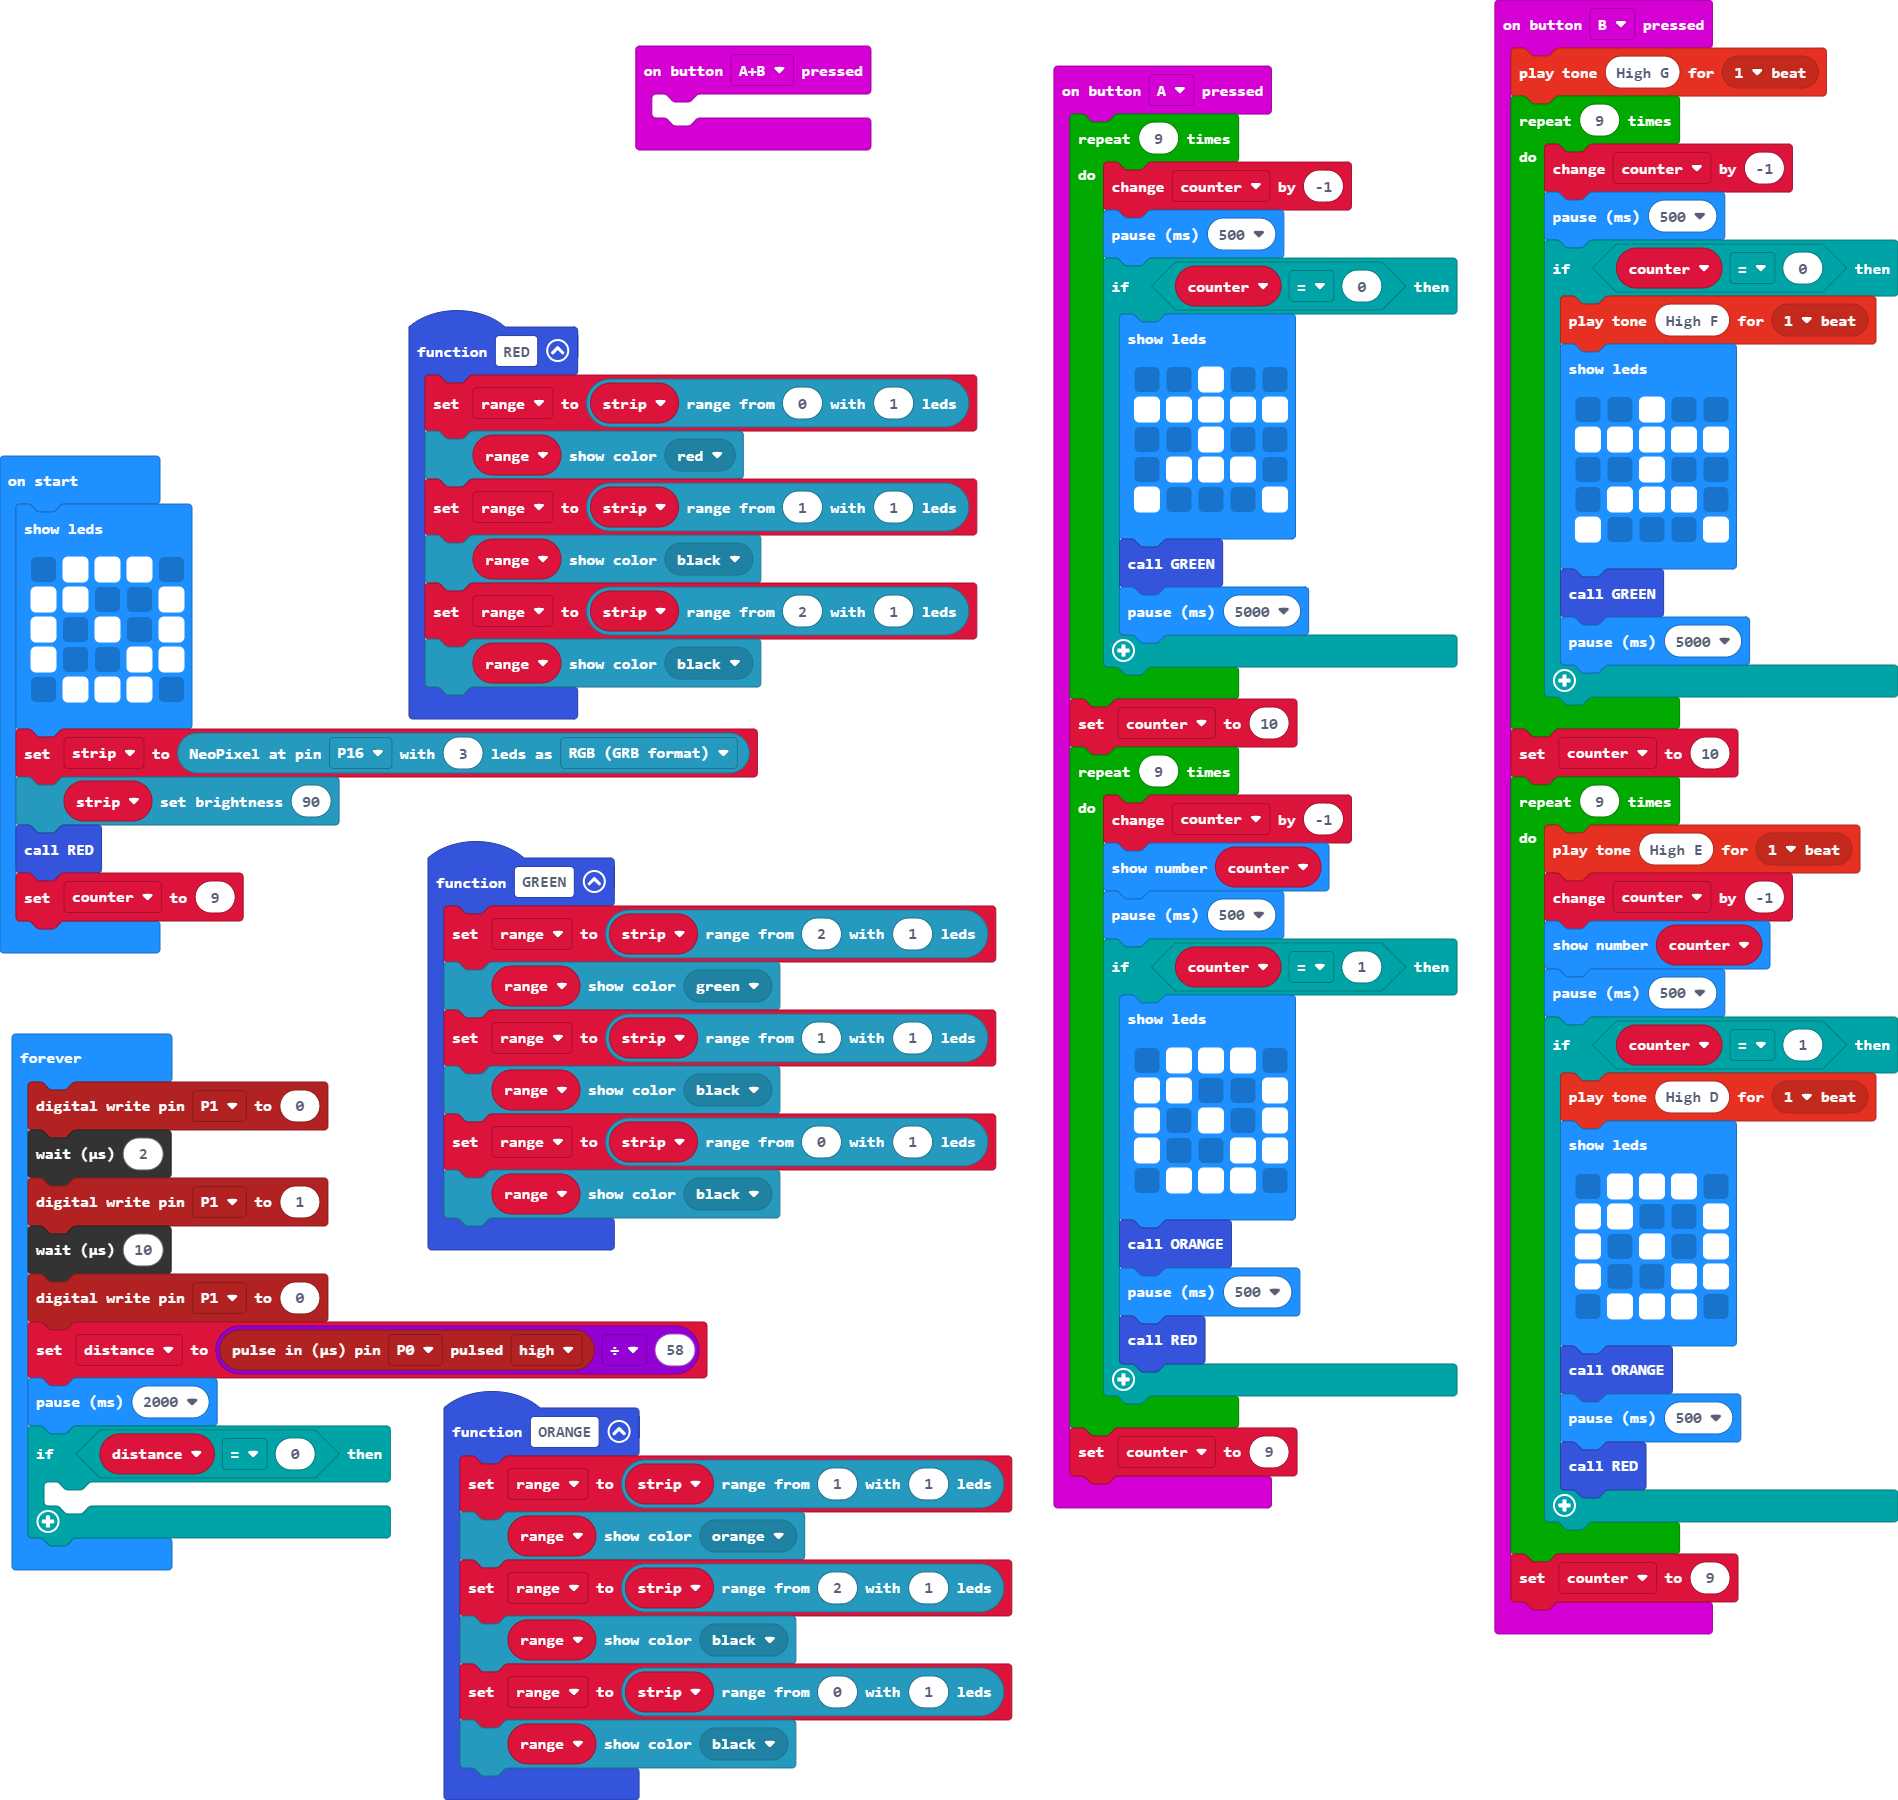
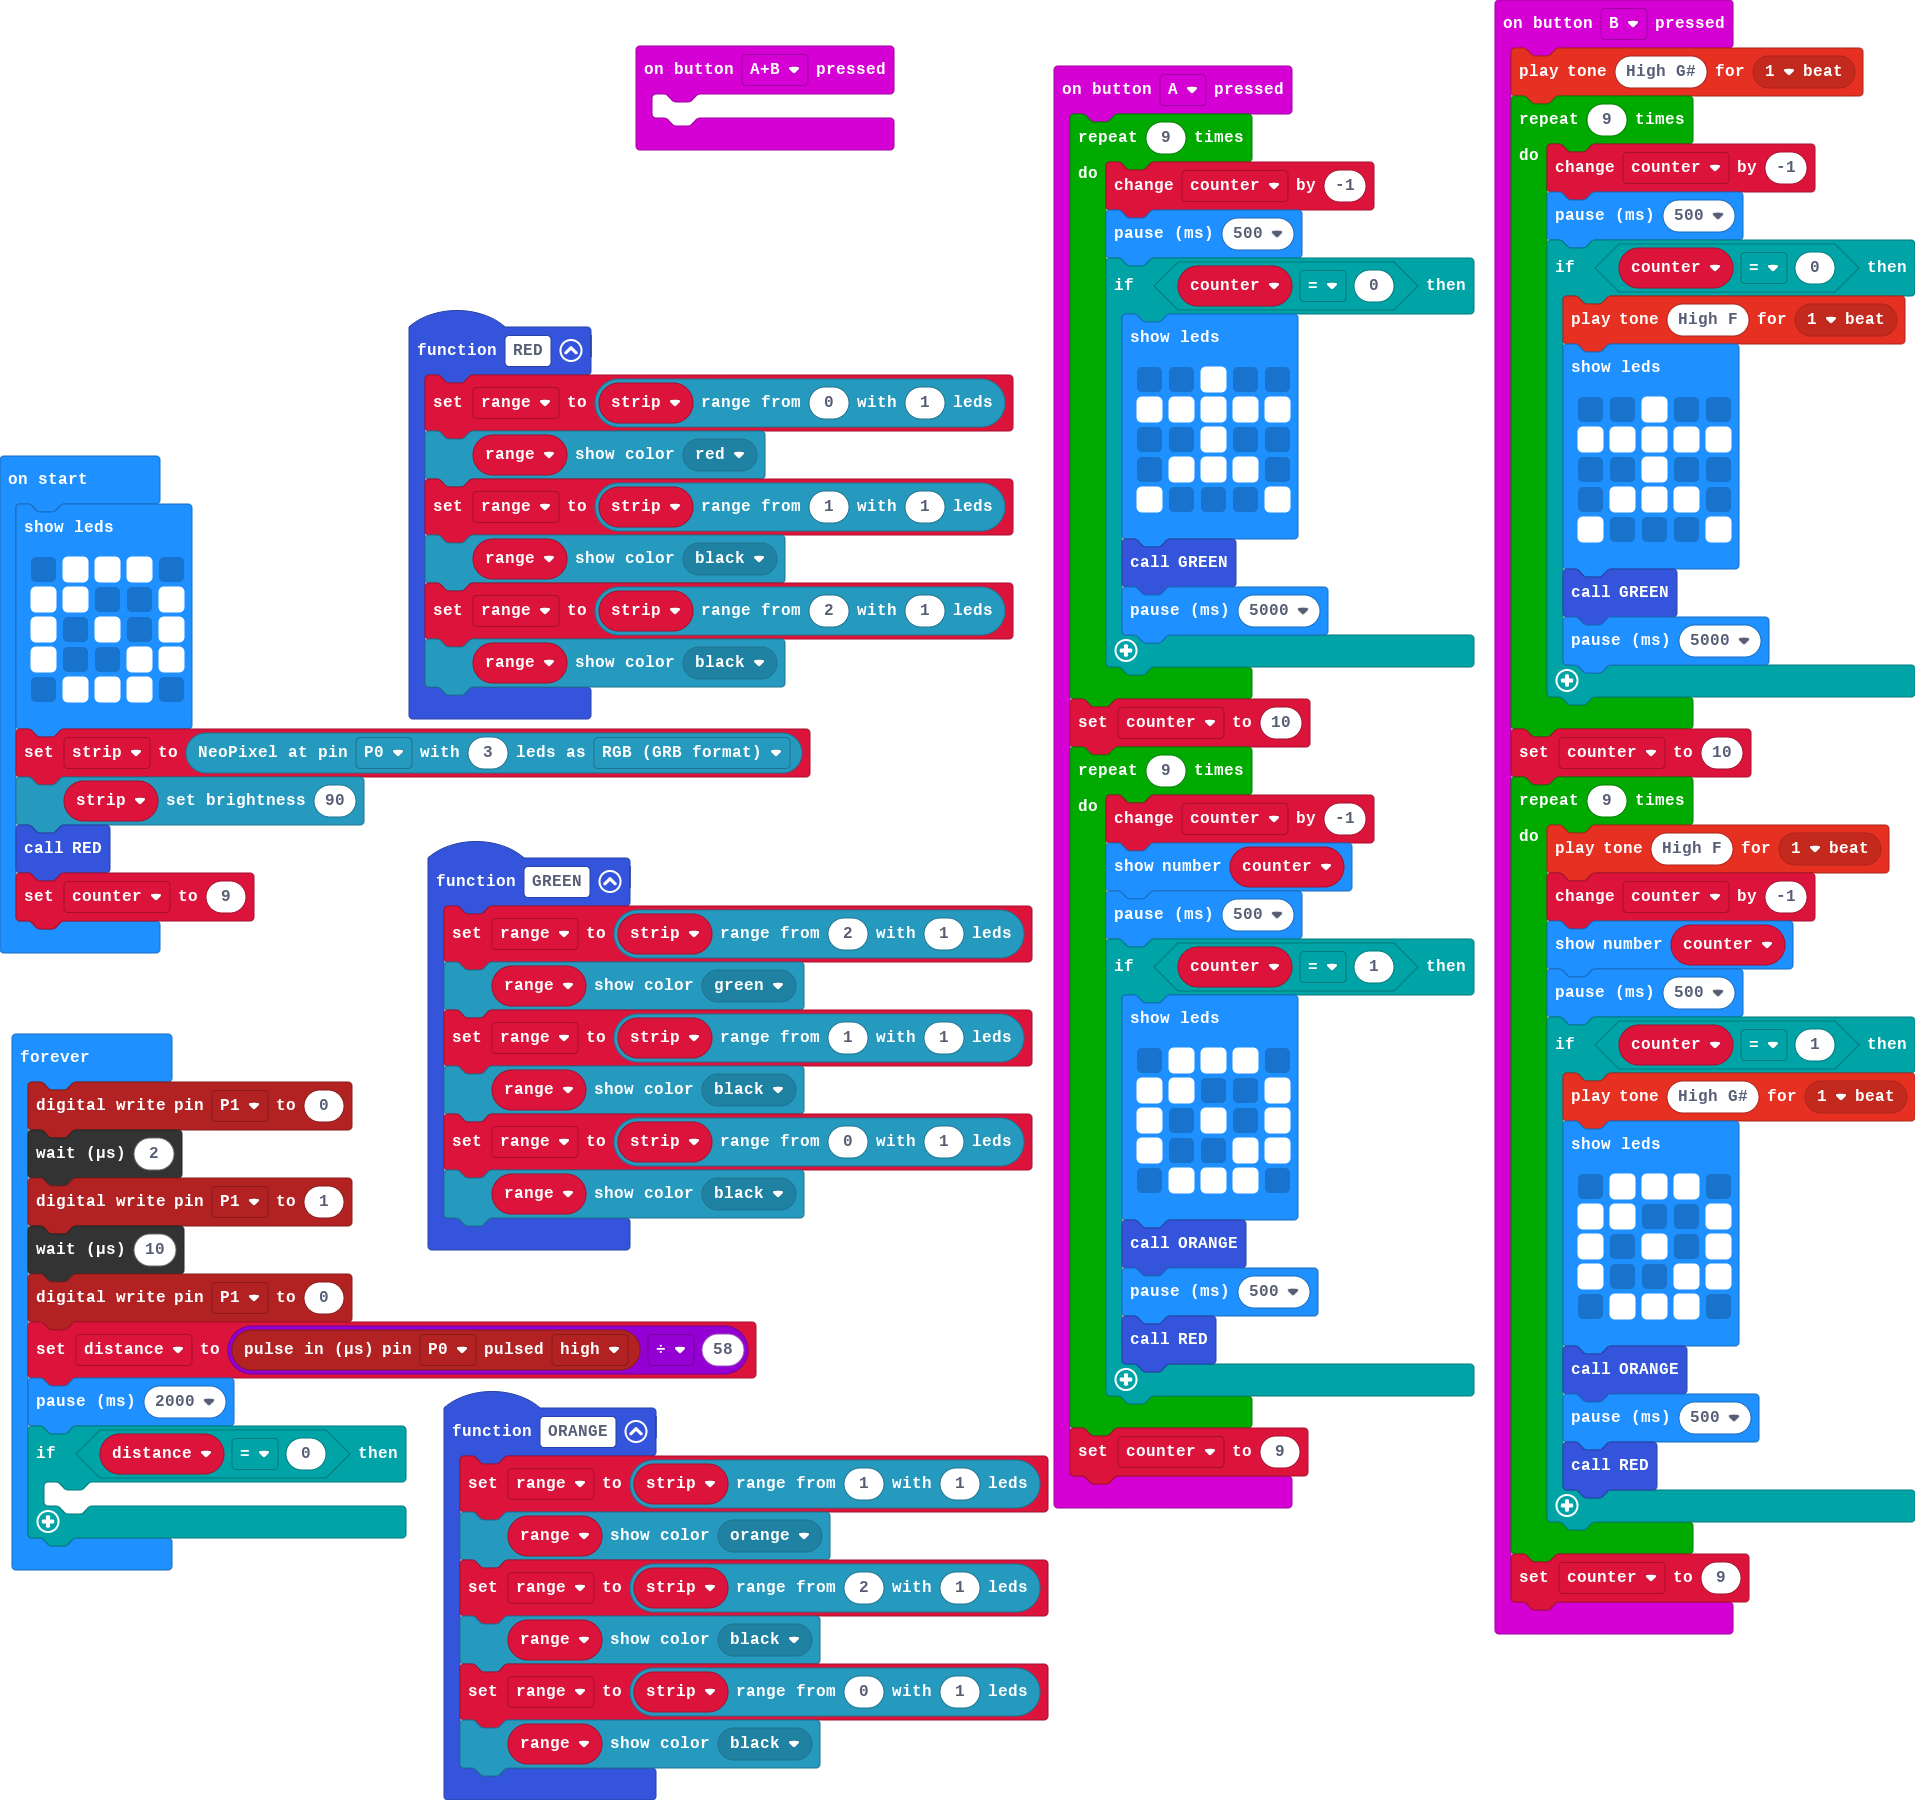
Update main.blocks, main.ts

diff --git a/main.ts b/main.ts
@@ -54,7 +54,7 @@ input.onButtonPressed(Button.AB, function () {
 	
 })
 input.onButtonPressed(Button.B, function () {
-    music.playTone(784, music.beat(BeatFraction.Whole))
+    music.playTone(831, music.beat(BeatFraction.Whole))
     for (let index = 0; index < 9; index++) {
         counter += -1
         basic.pause(500)
@@ -73,12 +73,12 @@ input.onButtonPressed(Button.B, function () {
     }
     counter = 10
     for (let index = 0; index < 9; index++) {
-        music.playTone(659, music.beat(BeatFraction.Whole))
+        music.playTone(698, music.beat(BeatFraction.Whole))
         counter += -1
         basic.showNumber(counter)
         basic.pause(500)
         if (counter == 1) {
-            music.playTone(587, music.beat(BeatFraction.Whole))
+            music.playTone(831, music.beat(BeatFraction.Whole))
             basic.showLeds(`
                 . # # # .
                 # # . . #
@@ -112,7 +112,7 @@ basic.showLeds(`
     # . . # #
     . # # # .
     `)
-strip = neopixel.create(DigitalPin.P16, 3, NeoPixelMode.RGB)
+strip = neopixel.create(DigitalPin.P0, 3, NeoPixelMode.RGB)
 strip.setBrightness(90)
 RED()
 counter = 9
